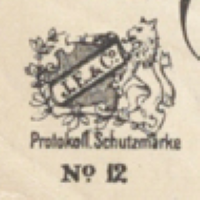
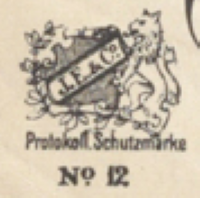
fix(edition): use same trademarks for op3:G and op4:A

diff --git a/src/app/views/edition-view/data/edition-trademarks.data.ts b/src/app/views/edition-view/data/edition-trademarks.data.ts
@@ -98,15 +98,6 @@ export const EDITION_TRADEMARKS_DATA = {
     },
 
     /**
-     * The path to the assets image of a trademark: JE No. 2, 12 Lines (variant "OP4_A2").
-     */
-    JE_NO2_LIN12_OP4_A2: {
-        route: 'assets/img/edition/trademarks/je/no2_lin12/trademark_je_no2_lin12_op4_A2.png',
-        short: '[JE] | No. 2 | 12 linig.',
-        full: 'J. E. & Co. [diagonal ansteigend auf schildförmiger Papierrolle, rechts von einem Löwen gehalten, links und unten Blattgirlande] | Protokoll. Schutzmarke | No. 2 | 12 linig.',
-    },
-
-    /**
      * The path to the assets image of a trademark: JE No. 2, 12 Lines (variant "OP4_B").
      */
     JE_NO2_LIN12_OP4_B: {
@@ -392,15 +383,6 @@ export const EDITION_TRADEMARKS_DATA = {
      */
     JE_NO12_LIN12_OP3_G1: {
         route: 'assets/img/edition/trademarks/je/no12_lin12/trademark_je_no12_lin12_op3_G1.png',
-        short: '[JE] | No. 12',
-        full: 'J. E. & Co. [diagonal ansteigend auf schildförmiger Papierrolle, rechts von einem Löwen gehalten, links und unten Blattgirlande] | Protokoll. Schutzmarke | No. 12',
-    },
-
-    /**
-     * The path to the assets image of a trademark: JE No. 12, 12 Lines (variant "OP4_A1").
-     */
-    JE_NO12_LIN12_OP4_A1: {
-        route: 'assets/img/edition/trademarks/je/no12_lin12/trademark_je_no12_lin12_op4_A1.png',
         short: '[JE] | No. 12',
         full: 'J. E. & Co. [diagonal ansteigend auf schildförmiger Papierrolle, rechts von einem Löwen gehalten, links und unten Blattgirlande] | Protokoll. Schutzmarke | No. 12',
     },
